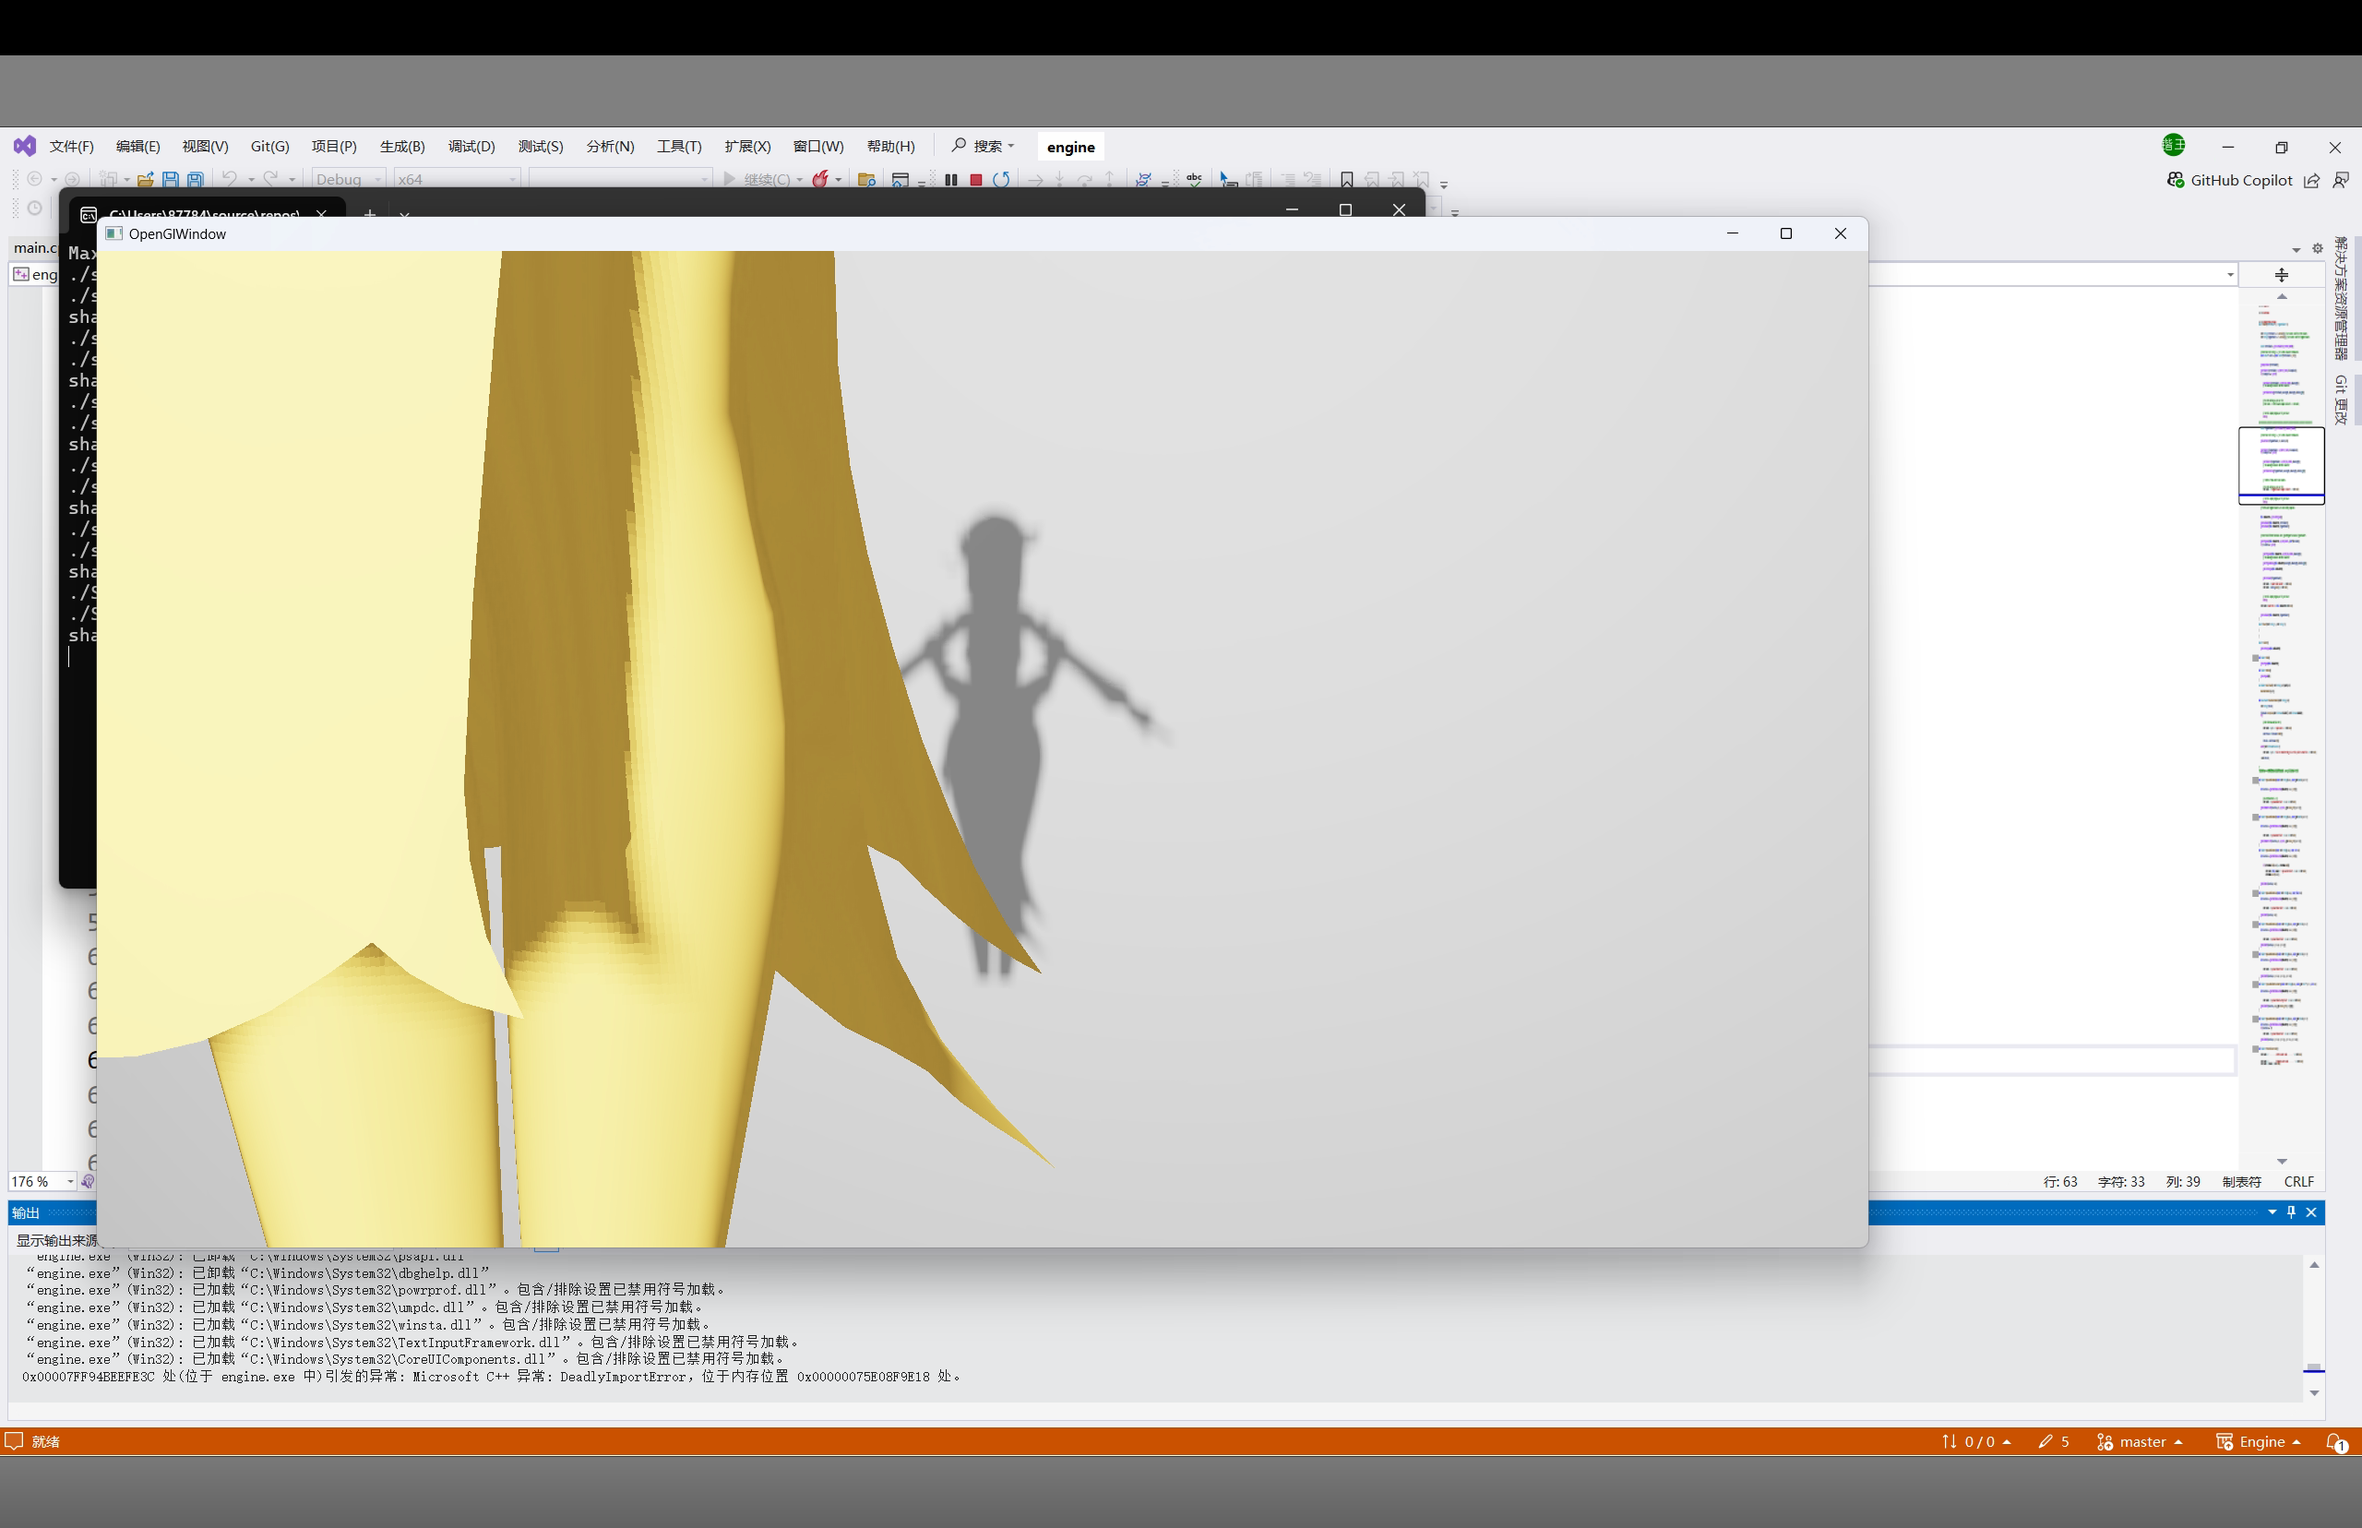
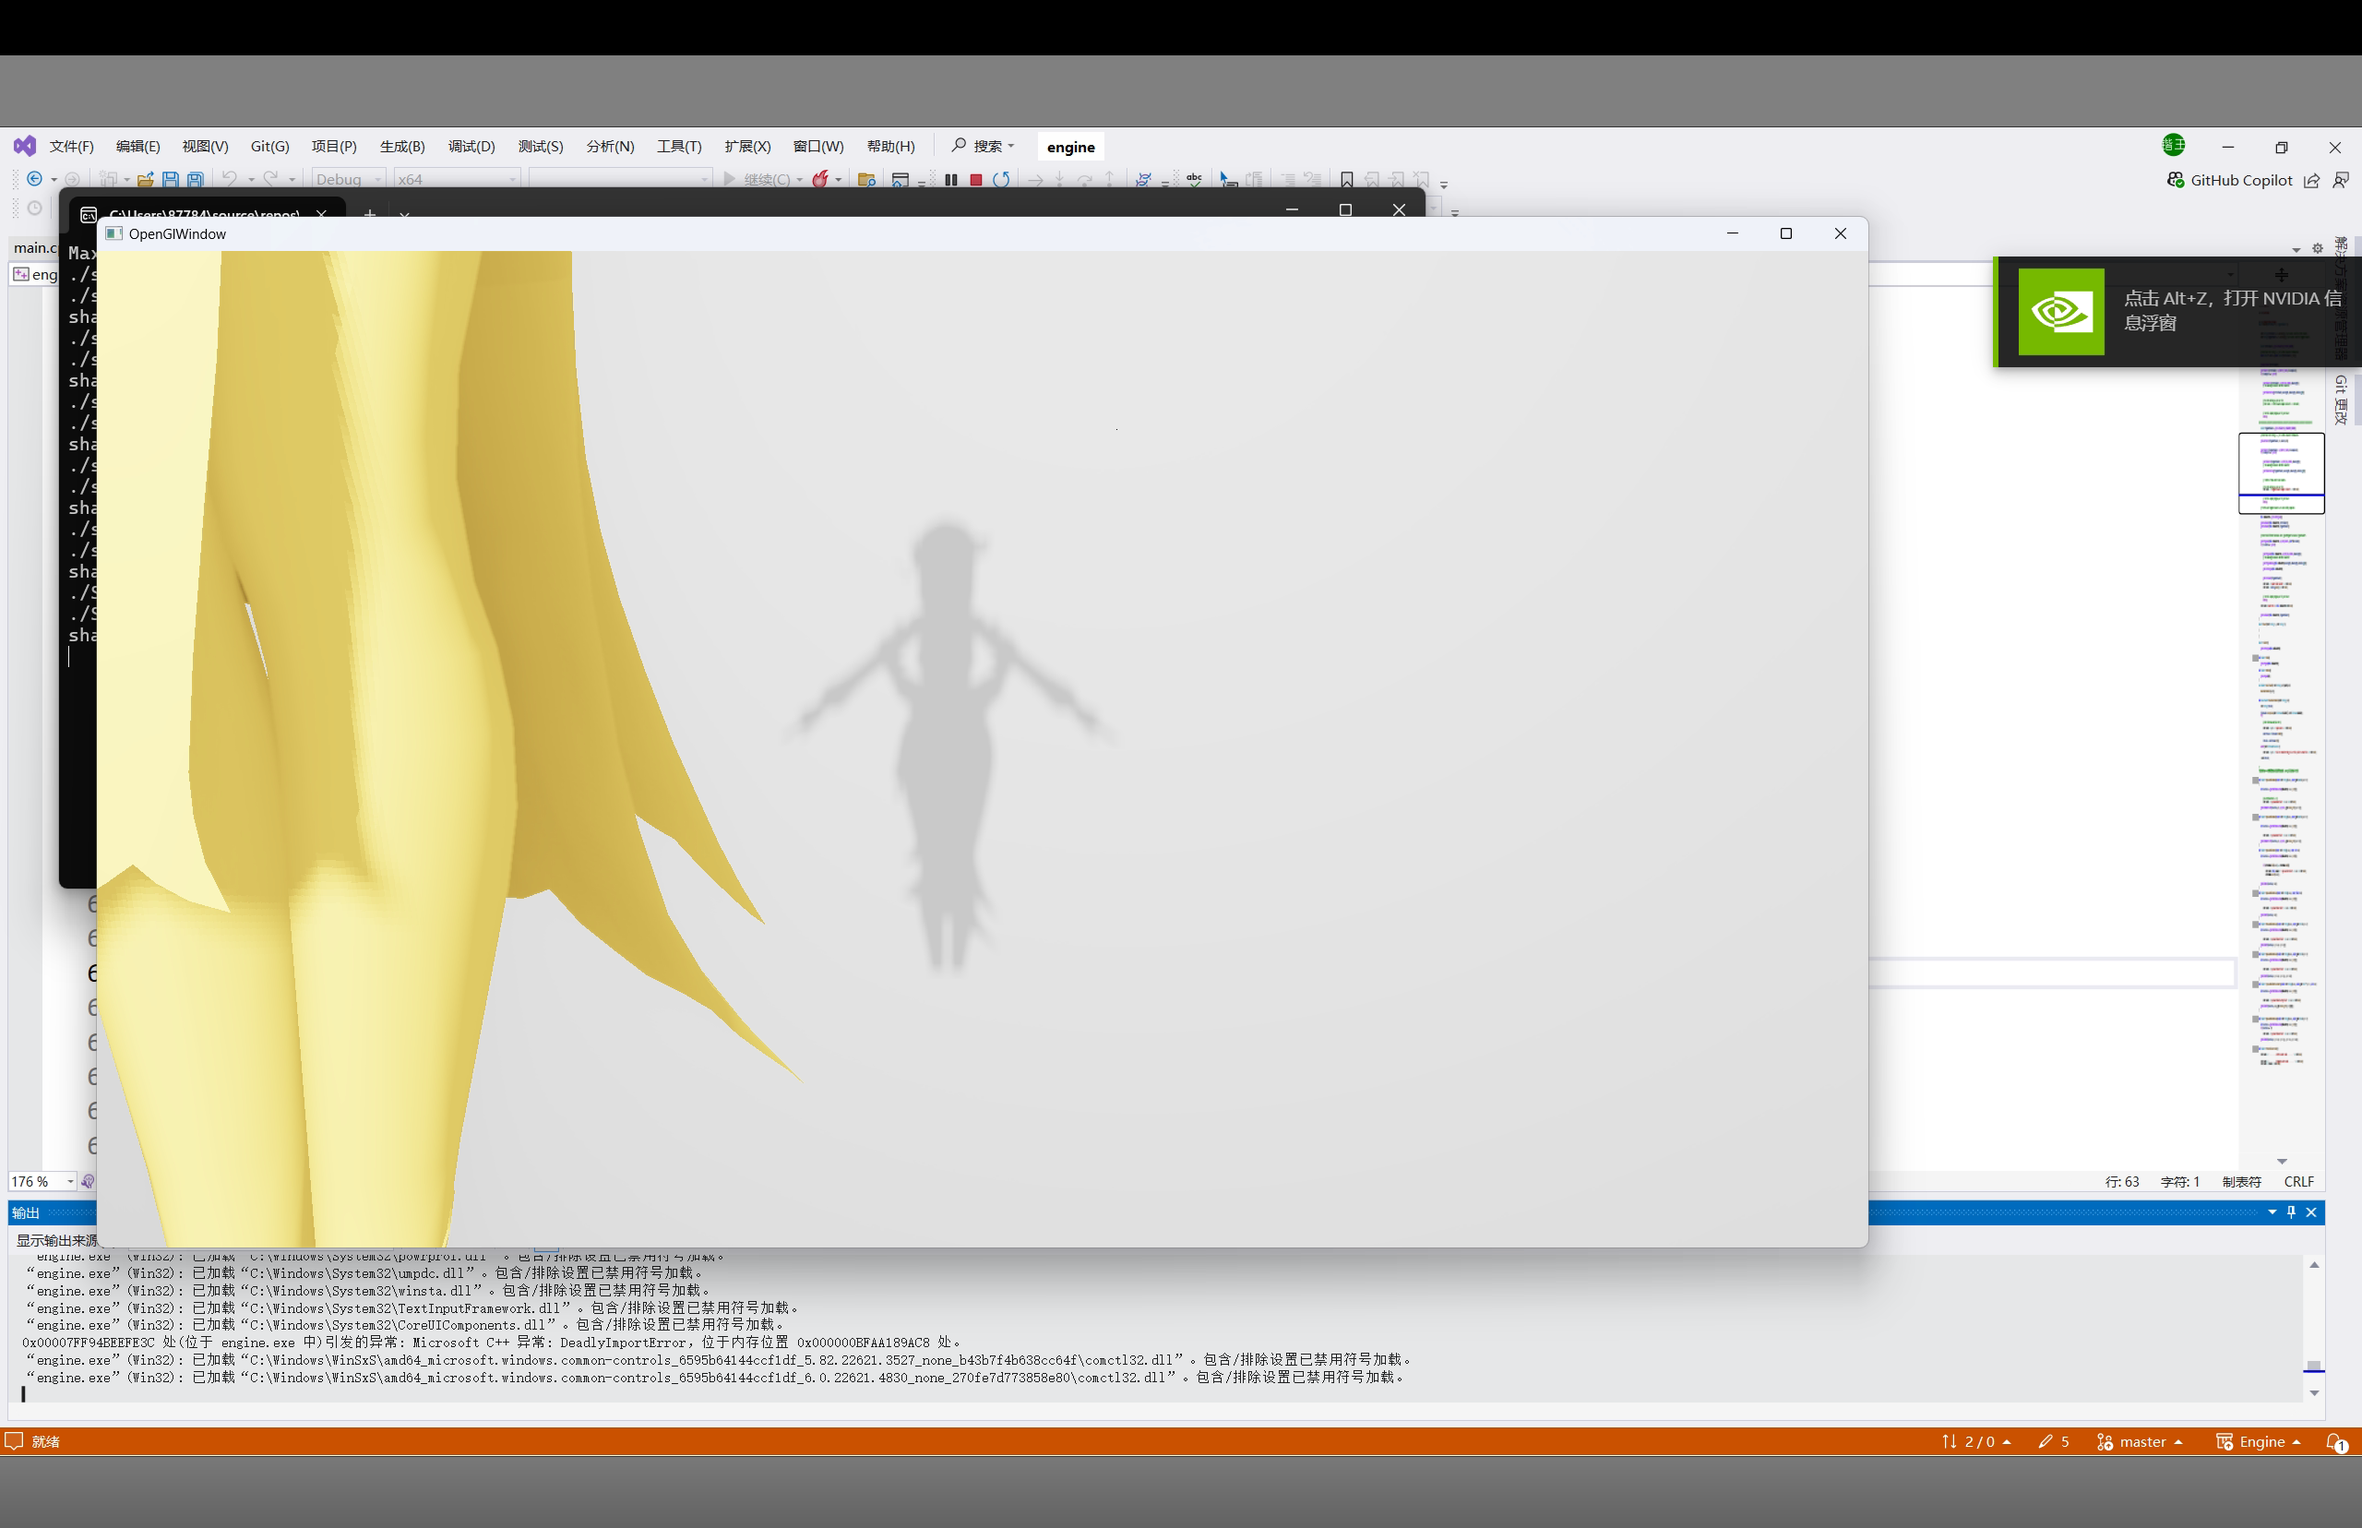
ssao final

diff --git a/engine/main.cpp b/engine/main.cpp
@@ -672,7 +672,7 @@ void SSAO()
 	Model model;model.loadModel("./Resource/shenhe/shenhe.pmx");
 	Sphere sp;
 	//模型modle matrix
-	glm::mat4 modelMatrix = glm::translate(glm::mat4(1.0), glm::vec3(0, -2, 30));
+	glm::mat4 modelMatrix = glm::translate(glm::mat4(1.0), glm::vec3(0, -2, 20));
 	modelMatrix = glm::scale(modelMatrix, glm::vec3(0.5, 0.5, 0.5));
 
 	glm::mat4 modelMatrix2 = glm::scale(glm::mat4(1.0), glm::vec3(10, 10, 0.5));
@@ -889,6 +889,7 @@ void SSAO()
 			//samples
 			ssaoShader.UpLoadUniformFloat3Array("samples", ssaoKernel.data(),ssaoKernel.size());
 			ssaoShader.UpLoadUniformMat4("projection", camera.GetProjection());
+			ssaoShader.UpLoadUniformMat4("view",camera.GetView());
 			quad.Draw(ssaoShader);
 			glBindFramebuffer(GL_FRAMEBUFFER, 0);
 		}
@@ -912,12 +913,22 @@ void SSAO()
 			glClear(GL_COLOR_BUFFER_BIT | GL_DEPTH_BUFFER_BIT);
 			//glViewport(0, 0, GeneralData::width, GeneralData::height);
 
-				if(glfwGetKey(window,GLFW_KEY_SPACE))
-				{
-					if(usingSSAO==1) usingSSAO=0;
-					else if(usingSSAO==0) usingSSAO=1;
-					//std::cout<<"press space"<<std::endl;
+				// if(glfwGetKey(window,GLFW_KEY_SPACE))
+				// {
+				// 	if(usingSSAO==1) usingSSAO=0;
+				// 	else if(usingSSAO==0) usingSSAO=1;
+				// 	//std::cout<<"press space"<<std::endl;
+				// }
+				// 在循环外定义静态变量跟踪上一帧空格键状态
+				static int prevSpaceState = GLFW_RELEASE;
+
+				// 在循环内检测按键
+				int currentSpaceState = glfwGetKey(window, GLFW_KEY_SPACE);
+				if (currentSpaceState == GLFW_PRESS && prevSpaceState == GLFW_RELEASE) {
+				    usingSSAO ^= 1; // 使用位运算切换 0/1 状态
+				    // 或者 usingSSAO = 1 - usingSSAO; // 更直观的写法
 				}
+				prevSpaceState = currentSpaceState; // 更新状态
 				quadDeferedPBR.Bind();
 				glActiveTexture(GL_TEXTURE0);//在绑定纹理之前先激活纹理单元 纹理单位就是GL_TEXTUREx这样的
 				glBindTexture(GL_TEXTURE_2D, gPosition);

diff --git a/README.md b/README.md
@@ -133,6 +133,8 @@ shadow+PBR 不使用SSAO：
 
 我们可以看到，此时在几何体较为接近的位置，亮度变暗了。同时影子也变暗了。
 
+随着采样半球的半径增大，每个fragment会记录更多几何之间的遮蔽关系，那么在这个模型的的几何关系下，ssao会更加明显。
+
 这是因为此时我们并没有调整环境光的系数，还是使用的0.03作为环境光系数。
 
 ## blur
@@ -238,5 +240,7 @@ float depthValue= texture(texture3, offset.xy).w;//??????? 为什么取负号？
 
 分析：应该从如何存储z值开始考虑。
 
+这里LearnOpenGL取了负号，但是OpenGL取负号的做法和我的不同，所以这里不能一概而论。
 
+我在GBuffer中存储的是世界坐标以及view space的线性深度值，而LearnOpenGL存储的是view space的坐标以及一个深度值。（这个深度值中文版和原版的处理不同，就都记为深度值）。之后的PBR流程需要的是世界坐标的值，所以我们在ssao的纹理处理部分加入一个view 矩阵来把世界坐标转化为view space的坐标。texture3存储的是我们之前记录的view space的坐标，经过renderdoc的验证也没有问题。那么在同一坐标系下的比较我们并不需要取负号。所以我们这里就不取负号了。
 
